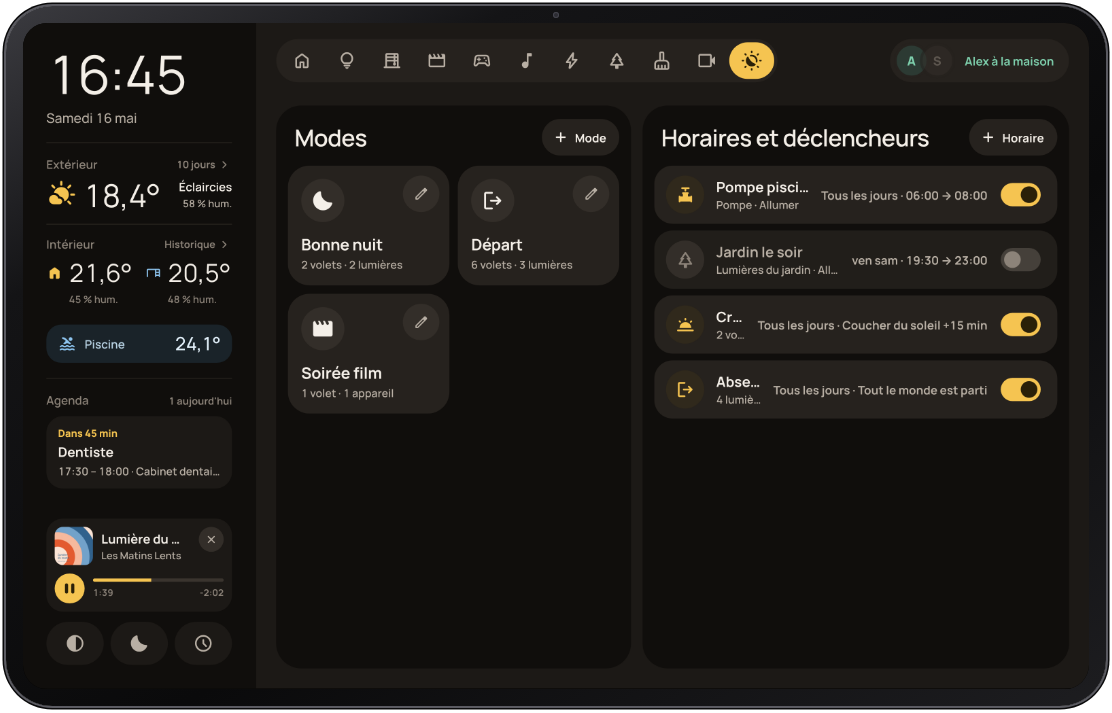
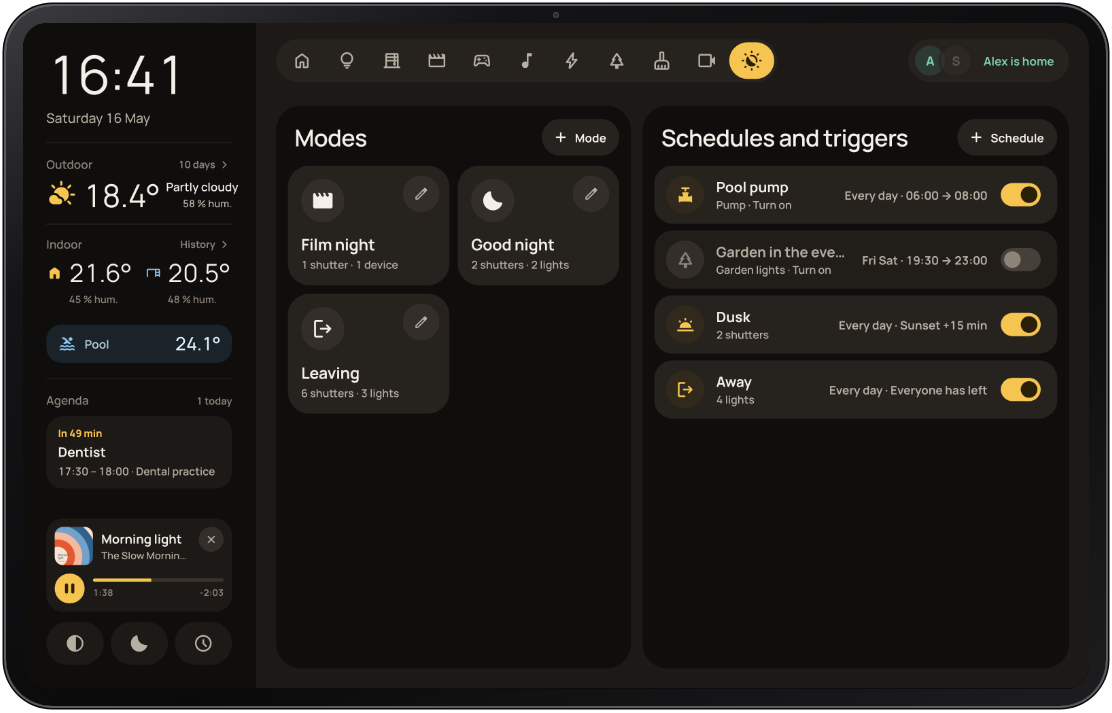
README screenshots in English; the French ones move to docs/images/fr
The English README showed the demo home in French. It now shows the same nine
screens with the interface and the home in English; README.fr.md keeps the
French captures.

diff --git a/README.fr.md b/README.fr.md
@@ -5,14 +5,14 @@
 
 [Read in English](README.md)
 
-![La page d'accueil](docs/images/home-dark.png)
+![La page d'accueil](docs/images/fr/home-dark.png)
 
 | | |
 |---|---|
-| ![Éclairage](docs/images/lights-dark.png) | ![Volets](docs/images/covers-dark.png) |
-| ![Musique](docs/images/music-dark.png) | ![Cinéma](docs/images/cinema-dark.png) |
-| ![Énergie](docs/images/energy-dark.png) | ![Ménage](docs/images/cleaning-dark.png) |
-| ![Horaires et modes](docs/images/automations-dark.png) | ![La page d'accueil, thème clair](docs/images/home-light.png) |
+| ![Éclairage](docs/images/fr/lights-dark.png) | ![Volets](docs/images/fr/covers-dark.png) |
+| ![Musique](docs/images/fr/music-dark.png) | ![Cinéma](docs/images/fr/cinema-dark.png) |
+| ![Énergie](docs/images/fr/energy-dark.png) | ![Ménage](docs/images/fr/cleaning-dark.png) |
+| ![Horaires et modes](docs/images/fr/automations-dark.png) | ![La page d'accueil, thème clair](docs/images/fr/home-light.png) |
 
 <sub>Une maison fictive. Les affiches de films, les pochettes, les titres et les artistes sont inventés pour la démonstration.</sub>
 

diff --git a/README.md b/README.md
@@ -14,7 +14,7 @@ schedules and modes — that also runs as a desktop app on Mac, Windows and Linu
 | ![Energy](docs/images/energy-dark.png) | ![Cleaning](docs/images/cleaning-dark.png) |
 | ![Schedules and modes](docs/images/automations-dark.png) | ![The home page, light theme](docs/images/home-light.png) |
 
-<sub>A fictional home, shown here in French. The film posters, album covers, titles and artists are invented for the demo.</sub>
+<sub>A fictional home. The film posters, album covers, titles and artists are invented for the demo.</sub>
 
 - **Your home stays yours.** The app contains nothing about your house. Everything specific (entities, rooms, keys)
   lives in one file, `paddock.yaml`, inside your Home Assistant, and is only given to signed-in devices.
